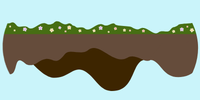
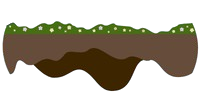
Background + Paralax scroll

diff --git a/index.js b/index.js
@@ -2,11 +2,17 @@ const canvas = document.querySelector('canvas')
 const c = canvas.getContext('2d')
 
 // img code possibly?
+const SkyImg = new Image();
+SkyImg.src = 'Sky.png'; 
+const hillsImg = new Image();
+hillsImg.src = 'Hills.png'; 
 const platformImg = new Image();
 platformImg.src = 'Platform.png'; 
 
-canvas.width = window.innerWidth
-canvas.height = window.innerHeight
+
+
+canvas.width = 1024
+canvas.height = 576
 
 const gravity = 0.5
 
@@ -56,17 +62,51 @@ class Platform {
         }
 
         this.width = 200
-        this.height = 20
+        this.height = 100
     }
 
     draw() {
-            c.fillStyle = 'blue'
-            c.fillRect(this.position.x, this.position.y, this.width, this.height)
+            c.drawImage(
+            platformImg,
+            this.position.x,
+            this.position.y,
+            this.width,
+            this.height
+            )
+        }
+}
+
+class Background {
+    constructor({ x, y, image }) {
+        this.position = {
+            x,
+            y
+        }
+
+        this.image = image
+        this.width = 3000
+        this.height = 580
+    }
+
+    draw() {
+            c.drawImage(
+            this.image,
+            this.position.x,
+            this.position.y,
+            this.width,
+            this.height
+            )
         }
 }
 
 const player = new Player()
-const platforms = [new Platform({x: 200, y: 300}), new Platform({x: 500, y: 500})]
+const platforms = [
+    new Platform({x: 0, y: 480}), 
+    new Platform({x: 400, y: 350}),
+    new Platform({x: 700, y: 200})]
+const sky = new Background({x: 0, y: 0, image: SkyImg})
+const hills = new Background({x: 0, y: 0, image: hillsImg})
+
 
 const keys = {
     right: {
@@ -81,11 +121,16 @@ let scrollOffset = 0
 
 function animate() {
     requestAnimationFrame(animate)
-    c.clearRect(0, 0, canvas.width, canvas.height)
-    player.update()
+    c.fillStyle = '#caf4fa'
+    c.fillRect(0, 0, canvas.width, canvas.height)
+
+    sky.draw()
+    hills.draw()
+    
     platforms.forEach(platform => {
         platform.draw()
     })
+    player.update()
 
     if (keys.right.pressed && player.position.x < 400) {
         player.velocity.x = 5
@@ -101,25 +146,41 @@ function animate() {
             platforms.forEach(platform => {
                 platform.position.x -= 5
             })
+
+            sky.position.x -= 2
+            hills.position.x -= 3
+
         } else if (keys.left.pressed) {
             scrollOffset -= 5
             platforms.forEach(platform => {
                 platform.position.x += 5
             })
+
+            sky.position.x += 2
+            hills.position.x += 3
         }
     }
 
     
     platforms.forEach(platform => {
-        // Platform collision detection
-        if (
-            player.position.y + player.height <= platform.position.y &&
-            player.position.y + player.height + player.velocity.y >= platform.position.y &&
-            player.position.x + player.width >= platform.position.x &&
-            player.position.x <= platform.position.x + platform.width
-        ) {
-            player.velocity.y = 0
-        }
+
+        // Collision detection
+        const groundHeight = 65
+        const platformCollisionY = platform.position.y + platform.height - groundHeight
+
+    if (
+        player.velocity.y > 0 &&
+
+        player.position.y + player.height <= platformCollisionY &&
+        player.position.y + player.height + player.velocity.y >= platformCollisionY &&
+
+        player.position.x + player.width >= platform.position.x &&
+        player.position.x <= platform.position.x + platform.width
+    ) {
+        player.velocity.y = 0
+
+        player.position.y = platformCollisionY - player.height
+    }
 
         // Win scenario
         if (scrollOffset > 2000) {
@@ -132,7 +193,6 @@ animate()
 
 
 // Event Listeners
-
 window.addEventListener('keydown', ( { keyCode }) => {
     switch (keyCode) { 
         case 65:
@@ -152,7 +212,7 @@ window.addEventListener('keydown', ( { keyCode }) => {
         case 87:
             console.log('up')
             if (event.repeat) {return}
-            player.velocity.y -= 20 
+            player.velocity.y -= 15 
             break
     }
 })

diff --git a/index.html b/index.html
@@ -3,6 +3,11 @@
 <style>
     body {
         margin: 0;
+        background-color: black;
+        display: flex;
+        align-items: center;
+        justify-content: center;
+        height: 100vh;
     }
 </style>
 
